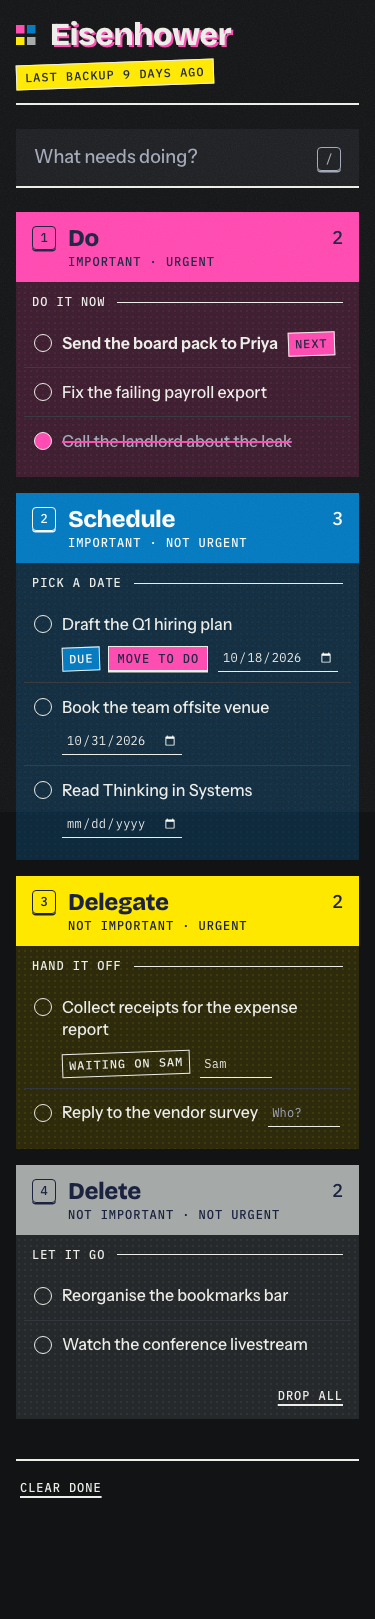
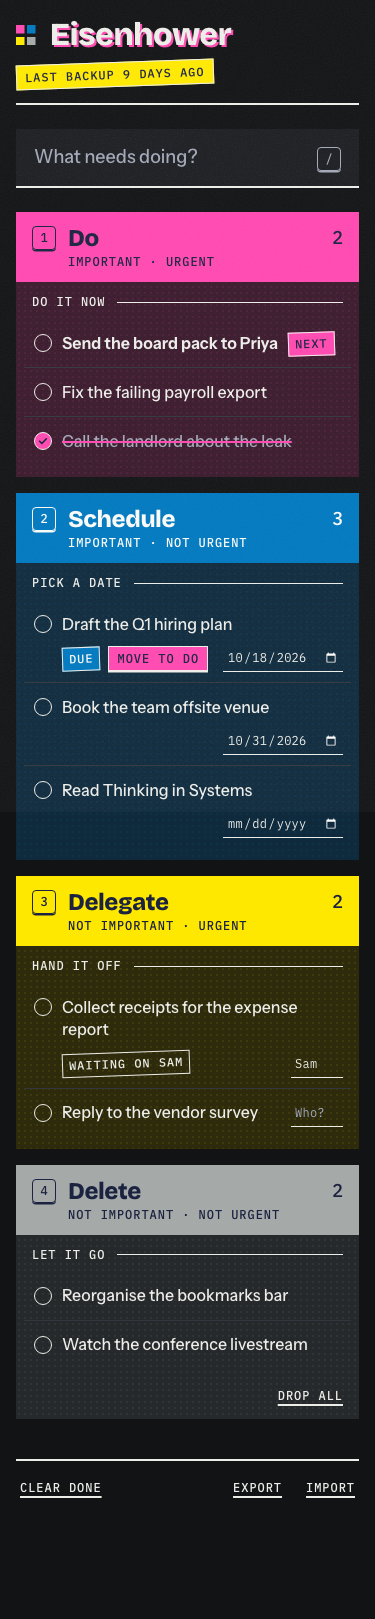
T12: screenshot the real footer and import dialog; clip partial shots to cut size
The dialog is opened through the Import button with a real file, not mocked markup. Shots of
one part of the page are clipped to it, since the paper grain is noise PNG cannot compress:
11 images in 2.9 MB, against 8 in 3.0 MB.

diff --git a/e2e/screenshots.spec.ts b/e2e/screenshots.spec.ts
@@ -4,8 +4,9 @@
  *
  *   SCREENSHOTS=1 npx playwright test screenshots
  *
- * SCREENSHOT_EXTRA=<dir> also writes review-only shots (hover, print-in mid-frame, a mocked
- * import dialog) to that directory.
+ * The paper grain is noise, which PNG cannot compress, so shots of one part of the page are
+ * clipped to that part. SCREENSHOT_EXTRA=<dir> also writes review-only shots (hover, focus,
+ * print-in mid-frame, the dialog in each theme and width, a rejected file) to that directory.
  */
 import { test, expect, type Page } from '@playwright/test';
 import { MAIN_KEY, seededBoard } from './fixtures/board';
@@ -35,6 +36,31 @@ async function ready(page: Page) {
   await page.evaluate(() => document.fonts.ready);
 }
 
+/** Picks a file through the real Import button, so the dialog is the app's own markup. */
+async function chooseImport(page: Page, name: string, text: string) {
+  const [chooser] = await Promise.all([page.waitForEvent('filechooser'), page.locator('.transfer__import').click()]);
+  await chooser.setFiles({ name, mimeType: 'application/json', buffer: Buffer.from(text) });
+  await expect(page.getByRole('dialog')).toBeVisible();
+  await expect(page.locator('.import-confirm__cancel')).toBeFocused();
+  await page.mouse.move(0, 0);
+}
+
+/** An eight-task export, as another browser would have saved it. */
+const exported = () => {
+  const board = JSON.parse(seededBoard());
+  board.tasks = board.tasks.slice(0, 8);
+  return JSON.stringify(board);
+};
+
+/** The page footer, with `above` px of the board over it, in full-page coordinates. */
+async function footerClip(page: Page, above: number) {
+  const { w, top, bottom } = await page.evaluate(() => {
+    const r = document.querySelector('.footer')!.getBoundingClientRect();
+    return { w: window.innerWidth, top: r.top + window.scrollY, bottom: r.bottom + window.scrollY };
+  });
+  return { x: 0, y: top - above, width: w, height: bottom - top + above + 24 };
+}
+
 for (const scheme of ['light', 'dark'] as const) {
   for (const [name, size] of [['desktop', DESKTOP], ['mobile', MOBILE]] as const) {
     test(`board ${scheme} ${name}`, async ({ page }) => {
@@ -57,7 +83,7 @@ test('triage prompt mid-question', async ({ page }) => {
   await page.keyboard.press('y');
   await expect(page.locator('.prompt__question')).toHaveText('Urgent?');
   await page.waitForTimeout(400);
-  await page.screenshot({ path: `${OUT}/triage-prompt.png` });
+  await page.screenshot({ path: `${OUT}/triage-prompt.png`, clip: { x: 0, y: 0, width: DESKTOP.width, height: 520 } });
 });
 
 test('review prompt', async ({ page }) => {
@@ -67,7 +93,7 @@ test('review prompt', async ({ page }) => {
   await page.keyboard.press('r');
   await expect(page.locator('.prompt__progress')).toHaveText('1 of 9');
   await page.waitForTimeout(400);
-  await page.screenshot({ path: `${OUT}/review-prompt.png` });
+  await page.screenshot({ path: `${OUT}/review-prompt.png`, clip: { x: 0, y: 0, width: DESKTOP.width, height: 520 } });
 });
 
 test('undo toast', async ({ page }) => {
@@ -78,7 +104,8 @@ test('undo toast', async ({ page }) => {
   await page.keyboard.press('Delete');
   await expect(page.locator('.toast__undo')).toBeVisible();
   await page.evaluate(() => document.getAnimations().forEach((a) => { a.pause(); a.currentTime = 1800; }));
-  await page.screenshot({ path: `${OUT}/undo-toast.png` });
+  const clip = { x: 0, y: DESKTOP.height - 360, width: DESKTOP.width, height: 360 };
+  await page.screenshot({ path: `${OUT}/undo-toast.png`, clip });
 });
 
 test('banner', async ({ page }) => {
@@ -87,7 +114,19 @@ test('banner', async ({ page }) => {
   await page.goto('/');
   await expect(page.locator('.banner')).toBeVisible();
   await page.evaluate(() => document.fonts.ready);
-  await page.screenshot({ path: `${OUT}/banner.png` });
+  await page.screenshot({ path: `${OUT}/banner.png`, clip: { x: 0, y: 0, width: DESKTOP.width, height: 420 } });
+});
+
+test('footer and import dialog', async ({ page }) => {
+  await page.setViewportSize(DESKTOP);
+  await seed(page);
+  await ready(page);
+  await page.screenshot({ path: `${OUT}/footer.png`, fullPage: true, clip: await footerClip(page, 140) });
+  await chooseImport(page, 'eisenhower-2026-10-12.json', exported());
+  await page.screenshot({ path: `${OUT}/import-light.png`, clip: { x: 0, y: 160, width: DESKTOP.width, height: 560 } });
+  await page.emulateMedia({ colorScheme: 'dark' });
+  await page.setViewportSize(MOBILE);
+  await page.screenshot({ path: `${OUT}/import-dark-mobile.png` });
 });
 
 test('review-only extras', async ({ page }) => {
@@ -102,9 +141,10 @@ test('review-only extras', async ({ page }) => {
     await page.locator('.q--schedule .task').first().hover();
     await page.screenshot({ path: `${EXTRA}/hover-${scheme}.png`, clip: { x: 0, y: 200, width: 1280, height: 420 } });
 
-    // A focused row.
-    await page.locator('.q--do .task').nth(1).focus();
+    // A focused row, by keyboard: the actions show without a pointer.
     await page.mouse.move(0, 0);
+    await page.locator('.q--do .task').first().focus();
+    await page.keyboard.press('ArrowDown');
     await page.screenshot({ path: `${EXTRA}/focus-${scheme}.png`, clip: { x: 0, y: 200, width: 1280, height: 420 } });
 
     // Print-in, paused 60 ms in, and the slip holding the destination.
@@ -122,27 +162,34 @@ test('review-only extras', async ({ page }) => {
     await page.screenshot({ path: `${EXTRA}/print-in-${scheme}.png` });
     await page.evaluate(() => document.getAnimations().forEach((a) => a.finish()));
 
-    // A mocked import dialog (T11's markup), to check the panel's look.
-    await page.evaluate(() => {
-      const footer = document.querySelector('.footer')!;
-      const wrap = document.createElement('div');
-      wrap.className = 'transfer';
-      wrap.innerHTML =
-        '<button type="button" class="transfer__export">Export</button><button type="button" class="transfer__import">Import</button><input type="file" class="transfer__file" hidden>' +
-        '<div class="import-confirm" role="dialog" aria-modal="true"><p class="import-confirm__text">Replace your 10 tasks with 8 tasks from eisenhower-2026-10-12.json? Your current tasks are backed up first.</p><p class="import-confirm__error" role="alert"></p><button type="button" class="import-confirm__replace">Replace</button><button type="button" class="import-confirm__cancel">Cancel</button></div>';
-      footer.append(wrap);
-      for (const el of document.querySelectorAll('#app > :not(.footer)')) el.setAttribute('inert', '');
-      (document.querySelector('.import-confirm__cancel') as HTMLElement).focus();
-    });
+    await page.screenshot({ path: `${EXTRA}/footer-${scheme}.png`, fullPage: true, clip: await footerClip(page, 140) });
+    await chooseImport(page, 'eisenhower-2026-10-12.json', exported());
     await page.screenshot({ path: `${EXTRA}/import-${scheme}.png` });
+    await page.keyboard.press('Escape');
+    await chooseImport(page, 'notes.json', '{"hello":');
+    await page.screenshot({ path: `${EXTRA}/import-rejected-${scheme}.png` });
+    await page.keyboard.press('Escape');
 
     await page.setViewportSize(MOBILE);
+    await page.screenshot({ path: `${EXTRA}/footer-${scheme}-mobile.png`, fullPage: true, clip: await footerClip(page, 140) });
+    await chooseImport(page, 'eisenhower-2026-10-12.json', exported());
     await page.screenshot({ path: `${EXTRA}/import-${scheme}-mobile.png` });
-    await page.evaluate(() => {
-      document.querySelector('.import-confirm')!.remove();
-      for (const el of document.querySelectorAll('[inert]')) el.removeAttribute('inert');
-    });
-    await page.screenshot({ path: `${EXTRA}/footer-${scheme}-mobile.png`, fullPage: true });
+    await page.keyboard.press('Escape');
+    await page.screenshot({ path: `${EXTRA}/board-${scheme}-mobile-full.png`, fullPage: true });
     await page.evaluate(() => sessionStorage.clear());
+  }
+});
+
+test('review-only extras: done rows and touch', async ({ browser }) => {
+  test.skip(!EXTRA, 'set SCREENSHOT_EXTRA=<dir>');
+  for (const scheme of ['light', 'dark'] as const) {
+    const context = await browser.newContext({ viewport: MOBILE, hasTouch: true, isMobile: true, colorScheme: scheme });
+    const page = await context.newPage();
+    await seed(page);
+    await ready(page);
+    for (const q of ['schedule', 'delegate', 'delete']) await page.locator(`.q--${q} .task__check`).last().click();
+    await page.locator('.q--schedule').scrollIntoViewIfNeeded();
+    await page.screenshot({ path: `${EXTRA}/touch-done-${scheme}.png` });
+    await context.close();
   }
 });
